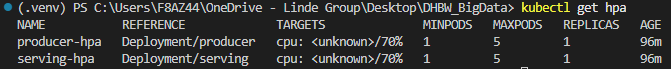
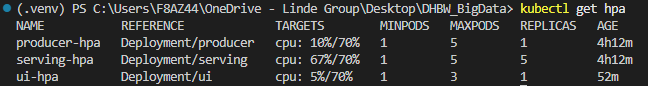
docs: clarify fraud decisions and refresh HPA evidence

diff --git a/README.md b/README.md
@@ -129,6 +129,8 @@ Equal weights avoid pretending that the synthetic data supports a learned calibr
 
 The prototype thresholds are deliberately explainable and matched to the synthetic source: ordinary generated purchases are EUR 1-250, whereas suspicious samples start at EUR 800; merchant scores at or above 0.7 represent the high-risk reference categories. More than 10 operations in 60 seconds models a card-testing/velocity burst while remaining easy to demonstrate. The 120-second lateness allowance is twice the window length, balancing disorder tolerance against bounded in-memory state.
 
+`fraud_score` is a continuous severity/ranking value, not the binary decision threshold. A transaction is marked `is_fraud=1` (`Flagged` in the UI) when **amount > EUR 800 OR merchant_risk >= 0.7**. Independently, a card receives a velocity alert when it has more than 10 transactions in its 60-second window. Keeping these outputs separate makes every alert explainable: the reviewer can see whether amount, merchant risk or rapid repetition caused suspicion.
+
 ### Windowing and state
 - For an event at time $t$, Gold `card_velocity` evaluates the per-card sliding interval $[t-60s,t]$.
 - The state stores `(event_time, amount, fraud_score)` and computes transaction count, cumulative amount and maximum score across the actual window; an alert is raised above 10 transactions.
